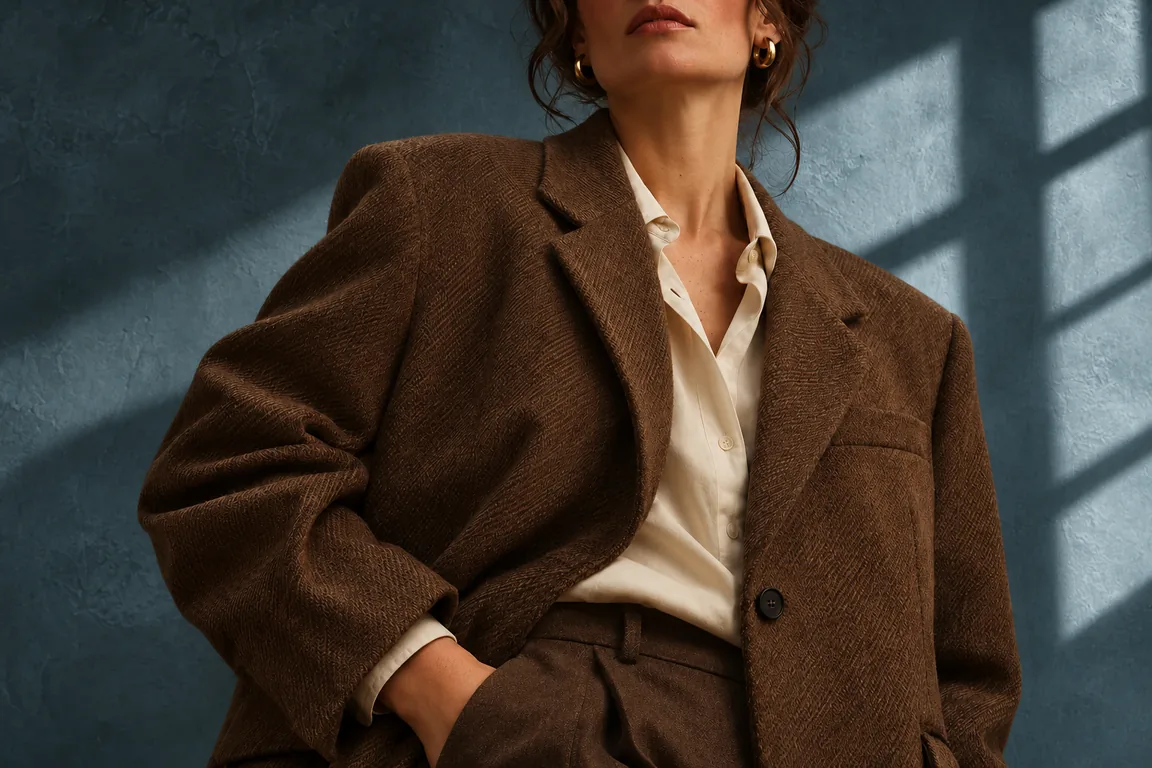
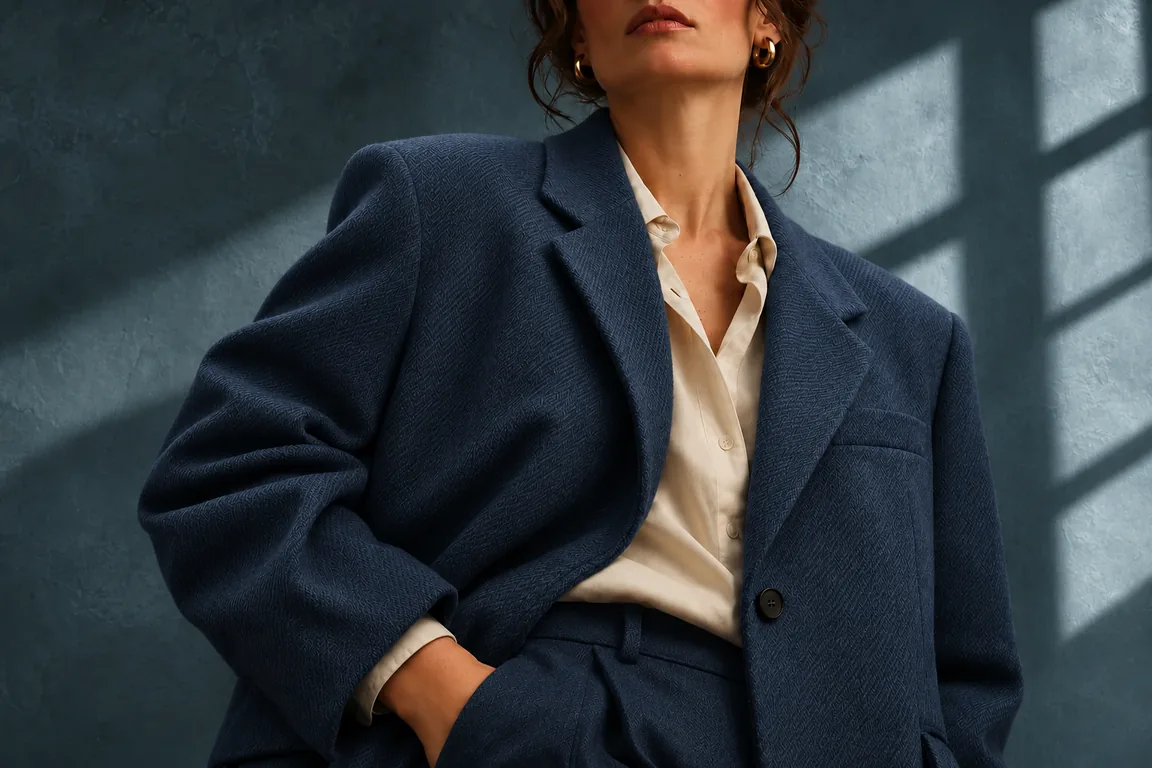
Usar azul marino en la fotografía de portada

diff --git a/index.html b/index.html
@@ -56,7 +56,7 @@
           </form>
         </div>
         <div class="hero-media">
-          <img src="img/editorial-azul.webp" width="1152" height="768" alt="" fetchpriority="high">
+          <img src="img/editorial-azul.webp?v=marino" width="1152" height="768" alt="" fetchpriority="high">
         </div>
       </section>
 
